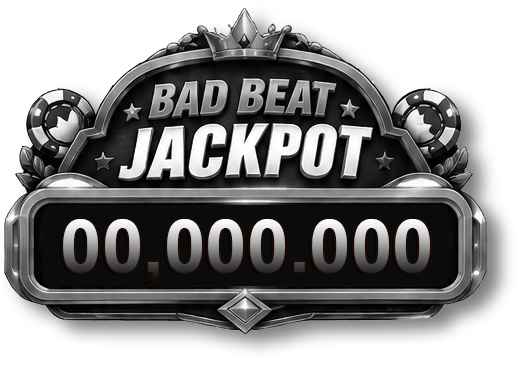
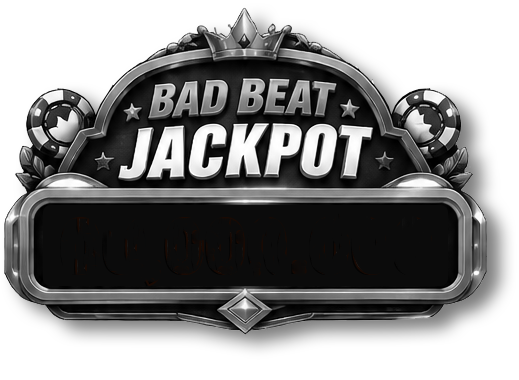
fix Issue CP- 260 , 301

Changed region(s): [[0.1233, 0.5789, 0.8324, 0.7237]]

diff --git a/UnityProject/Assets/Scripts/Club/MemberDetail_RoleSelectionScreenScript.cs b/UnityProject/Assets/Scripts/Club/MemberDetail_RoleSelectionScreenScript.cs
@@ -95,6 +95,7 @@ public class MemberDetail_RoleSelectionScreenScript : MonoBehaviour
 
                     currentIsTableManager = isTableManager;
                     UpdateManagerTypeText();
+                    SetActionButtons(Role);
 
                     if (MemberPanelScript != null)
                         MemberPanelScript.LoadMembers().Forget();
@@ -152,7 +153,7 @@ public class MemberDetail_RoleSelectionScreenScript : MonoBehaviour
             RoleTypeGrid.SetActive(true);
         }
 
-       if(clubrole == ClubRole.Manager)
+        if (clubrole == ClubRole.Manager)
         {
             Manager_Button.interactable = false;
         }
@@ -275,10 +276,10 @@ public class MemberDetail_RoleSelectionScreenScript : MonoBehaviour
     {
         if (ManagerTypeText == null)
             return;
-            ManagerTypeText.text = currentIsTableManager
-                ? Loc.Get("table_manager")
-                : Loc.Get("manager");
-      
+        ManagerTypeText.text = currentIsTableManager
+            ? Loc.Get("table_manager")
+            : Loc.Get("manager");
+
     }
 
     private void UpdateRoleButtons(string role)
@@ -289,7 +290,7 @@ public class MemberDetail_RoleSelectionScreenScript : MonoBehaviour
         bool isMember = role == "MEMBER";
         bool isSuperAgent = role == "SUPER_AGENT";
 
-        
+
         if (AuthManager.Instance.Session.Id != id)
         {
             if (CreatorPanel != null)
@@ -320,7 +321,7 @@ public class MemberDetail_RoleSelectionScreenScript : MonoBehaviour
             ButtonPanel.SetActive(false);
             RoleTypeGrid.SetActive(false);
         }
-       
+
 
 
         SetActionButtons(role);
@@ -348,7 +349,7 @@ public class MemberDetail_RoleSelectionScreenScript : MonoBehaviour
         {
             case "MANAGER":
                 tracePlayer = true;
-                authorizationRestriction = true;
+                authorizationRestriction = !currentIsTableManager;
                 sendGift = true;
                 deleteMember = true;
                 break;
@@ -425,13 +426,13 @@ public class MemberDetail_RoleSelectionScreenScript : MonoBehaviour
     {
         switch (role)
         {
-            case "CREATOR":       return Loc.Get("creator");
-            case "MANAGER":       return Loc.Get("manager");
+            case "CREATOR": return Loc.Get("creator");
+            case "MANAGER": return Loc.Get("manager");
             case "TABLE_MANAGER": return Loc.Get("table_manager");
-            case "SUPER_AGENT":   return Loc.Get("superagent");
-            case "AGENT":         return Loc.Get("agent");
-            case "MEMBER":        return Loc.Get("member");
-            default:              return role;
+            case "SUPER_AGENT": return Loc.Get("superagent");
+            case "AGENT": return Loc.Get("agent");
+            case "MEMBER": return Loc.Get("member");
+            default: return role;
         }
     }
 

diff --git a/UnityProject/Assets/Scripts/Club/JackPot/BadBeatJackPotScreenScript.cs b/UnityProject/Assets/Scripts/Club/JackPot/BadBeatJackPotScreenScript.cs
@@ -201,9 +201,7 @@ public class BadBeatJackPotScreenScript : MonoBehaviour
             CurrentAmount.text = BadBeatCUrrentAcount;
             ShowClubTableScreenScript.CurrentAmount.text = BadBeatCUrrentAcount;
             JackPotScreenScript.BadBeatCurrentAmount.text = BadBeatCUrrentAcount;
-            CurrentAmount.gameObject.SetActive(data.IsEnabled);
-            ShowClubTableScreenScript.CurrentAmount.gameObject.SetActive(data.IsEnabled);
-            JackPotScreenScript.BadBeatCurrentAmount.gameObject.SetActive(data.IsEnabled);
+            
         }
     }
 
